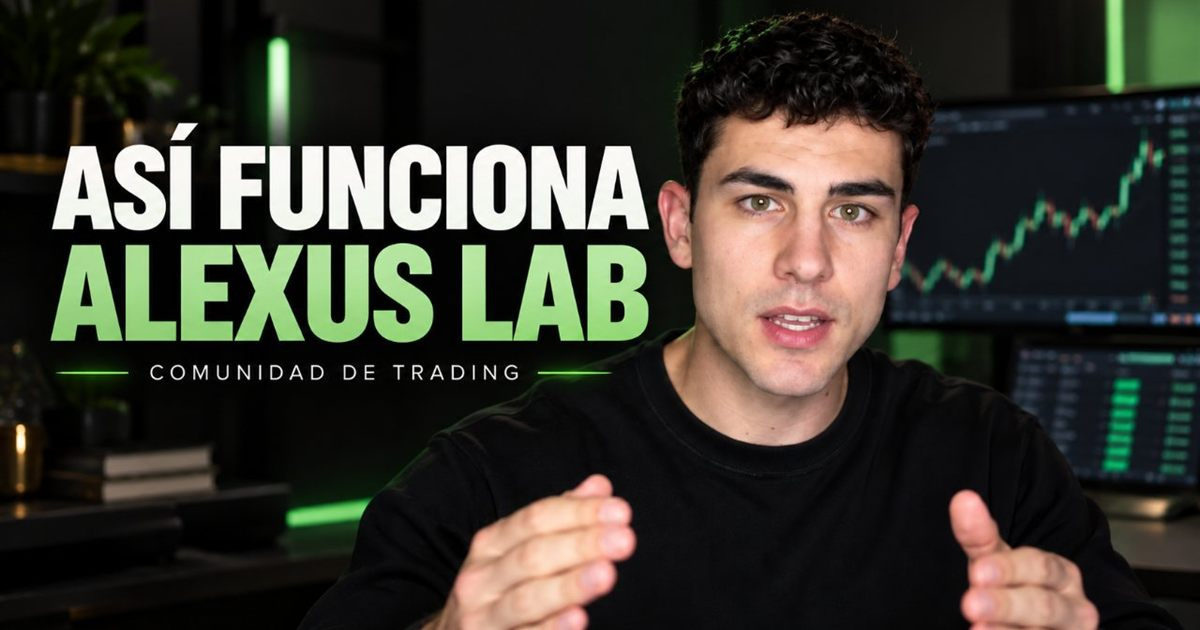
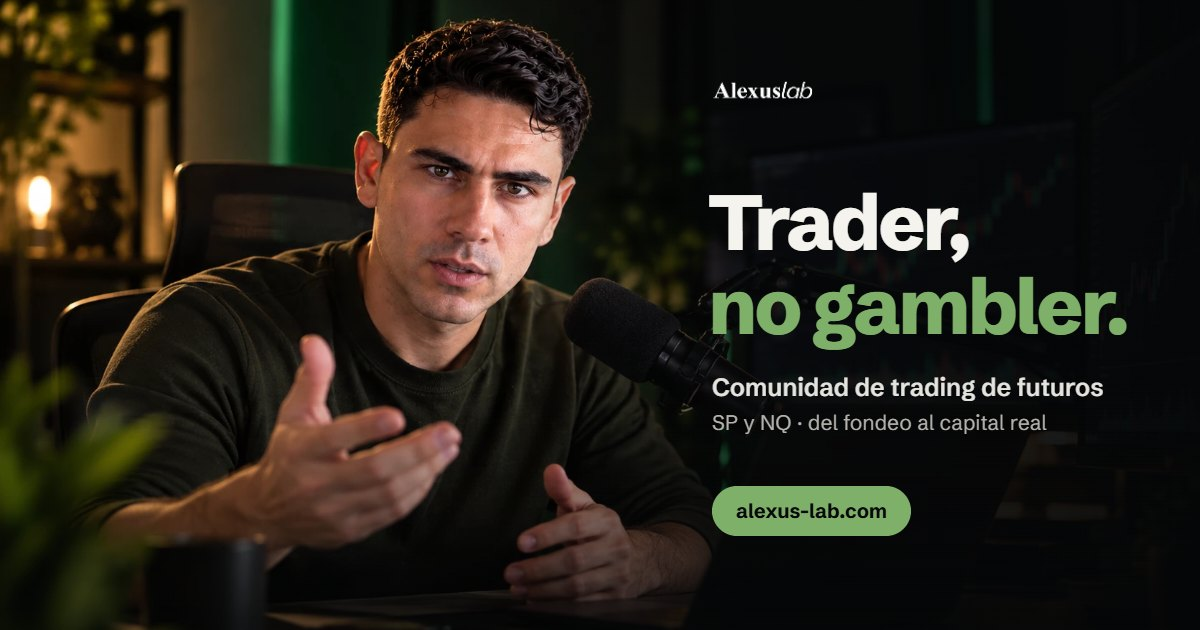
Add files via upload

diff --git a/Mentoria.html b/Mentoria.html
@@ -9,7 +9,7 @@
 <meta property="og:site_name" content="AlexusLab" />
 <meta property="og:title" content="Clase gratis — AlexusLab" />
 <meta property="og:description" content="Cómo paso y mantengo cuentas de fondeo operando futuros. Gratis y sin tarjeta." />
-<meta property="og:image" content="https://www.alexus-lab.com/assets/og.jpg" />
+<meta property="og:image" content="https://www.alexus-lab.com/assets/og.jpg?v=2" />
 <meta property="og:url" content="https://www.alexus-lab.com/Mentoria.html" />
 <meta name="twitter:card" content="summary_large_image" />
 <link rel="icon" href="favicon.svg" type="image/svg+xml" />
@@ -109,6 +109,7 @@ body.done #resultado{display:block}
 .doubts .btn{min-height:48px;font-size:12.5px}
 </style>
 <style>.men .hero{min-height:auto;padding-top:118px}.steps3 p{margin:0}</style>
+<style>.men .hero__bg::after{background:linear-gradient(180deg,rgba(5,6,7,.62) 0%,rgba(5,6,7,.7) 50%,rgba(5,6,7,.9) 85%,#050607 100%)}@media(min-width:900px){.men .hero__bg::after{background:linear-gradient(180deg,transparent 60%,rgba(5,6,7,.5))}}</style>
 </head>
 <body class="men">
 
@@ -123,7 +124,7 @@ body.done #resultado{display:block}
 </header>
 
 <section class="hero hero--split">
-  <div class="hero__bg"><img src="assets/hub-hero.jpg" alt="" width="1000" height="1000" fetchpriority="high" style="object-position:22% 30%" /></div>
+  <div class="hero__bg"><img src="assets/hero-clase.webp" alt="Alex operando en directo" width="1672" height="941" fetchpriority="high" style="object-position:66% 30%" /></div>
   <div class="hero__c">
     <h1>Deja de operar como un gambler. <span class="g">Empieza a operar como un trader.</span></h1>
     <p class="lead">Clase gratis: lo que me hizo click para ser rentable.</p>

diff --git a/Comunidad.html b/Comunidad.html
@@ -9,7 +9,7 @@
 <meta property="og:site_name" content="AlexusLab" />
 <meta property="og:title" content="Trader, no gambler — Comunidad AlexusLab" />
 <meta property="og:description" content="El fondeo es el entrenamiento, no la meta. Rutina, ejecución y psicología. Desde 35 €/mes." />
-<meta property="og:image" content="https://www.alexus-lab.com/assets/og.jpg" />
+<meta property="og:image" content="https://www.alexus-lab.com/assets/og.jpg?v=2" />
 <meta property="og:url" content="https://www.alexus-lab.com/Comunidad.html" />
 <meta name="twitter:card" content="summary_large_image" />
 <link rel="icon" href="favicon.svg" type="image/svg+xml" />
@@ -38,7 +38,7 @@ gtag('js',new Date());gtag('config','G-5V6SQC3VV2');</script>
 </header>
 
 <section class="hero hero--split">
-  <div class="hero__bg"><img src="assets/hub-hero.jpg" alt="" width="1000" height="1000" fetchpriority="high" style="object-position:22% 30%" /></div>
+  <div class="hero__bg"><img src="assets/hero-comunidad.webp" alt="Alex operando en directo" width="1672" height="941" fetchpriority="high" style="object-position:37% 30%" /></div>
   <div class="hero__c">
     <h1>No te voy a enseñar a explotar cuentas de fondeo. <span class="g">Te voy a enseñar a ser trader.</span></h1>
     <p class="lead">Rutina, ejecución y psicología para operar futuros (SP y NQ) como quien mañana gestiona capital real.</p>

diff --git a/index.html b/index.html
@@ -9,7 +9,7 @@
 <meta property="og:site_name" content="AlexusLab" />
 <meta property="og:title" content="Alexus Trader · Trader, no gambler" />
 <meta property="og:description" content="Comunidad, clase gratis y un vídeo nuevo cada semana sobre cómo operar como un trader." />
-<meta property="og:image" content="https://www.alexus-lab.com/assets/og.jpg" />
+<meta property="og:image" content="https://www.alexus-lab.com/assets/og.jpg?v=2" />
 <meta property="og:url" content="https://www.alexus-lab.com/" />
 <meta name="twitter:card" content="summary_large_image" />
 <link rel="icon" href="favicon.svg" type="image/svg+xml" />

diff --git a/funnel.css b/funnel.css
@@ -444,3 +444,10 @@ p{margin:0}
 .yt-card__t b{display:block;margin-top:5px;font-size:17px;line-height:1.3;letter-spacing:-.01em}
 .hub .members{margin-top:22px}
 @media(min-width:720px){.hub .hero{height:380px;min-height:0;margin-top:60px;border-radius:28px}}
+/* auditoría: zonas táctiles y legibilidad */
+.faq details{padding:0}
+.faq summary{padding:18px 0;min-height:48px;align-items:center}
+.faq p{margin:0 0 18px}
+.foot__legal-links a{padding:12px 10px}
+.hero__sub{padding:12px 8px;margin-top:4px}
+.foot .foot__legal{font-size:12px}
